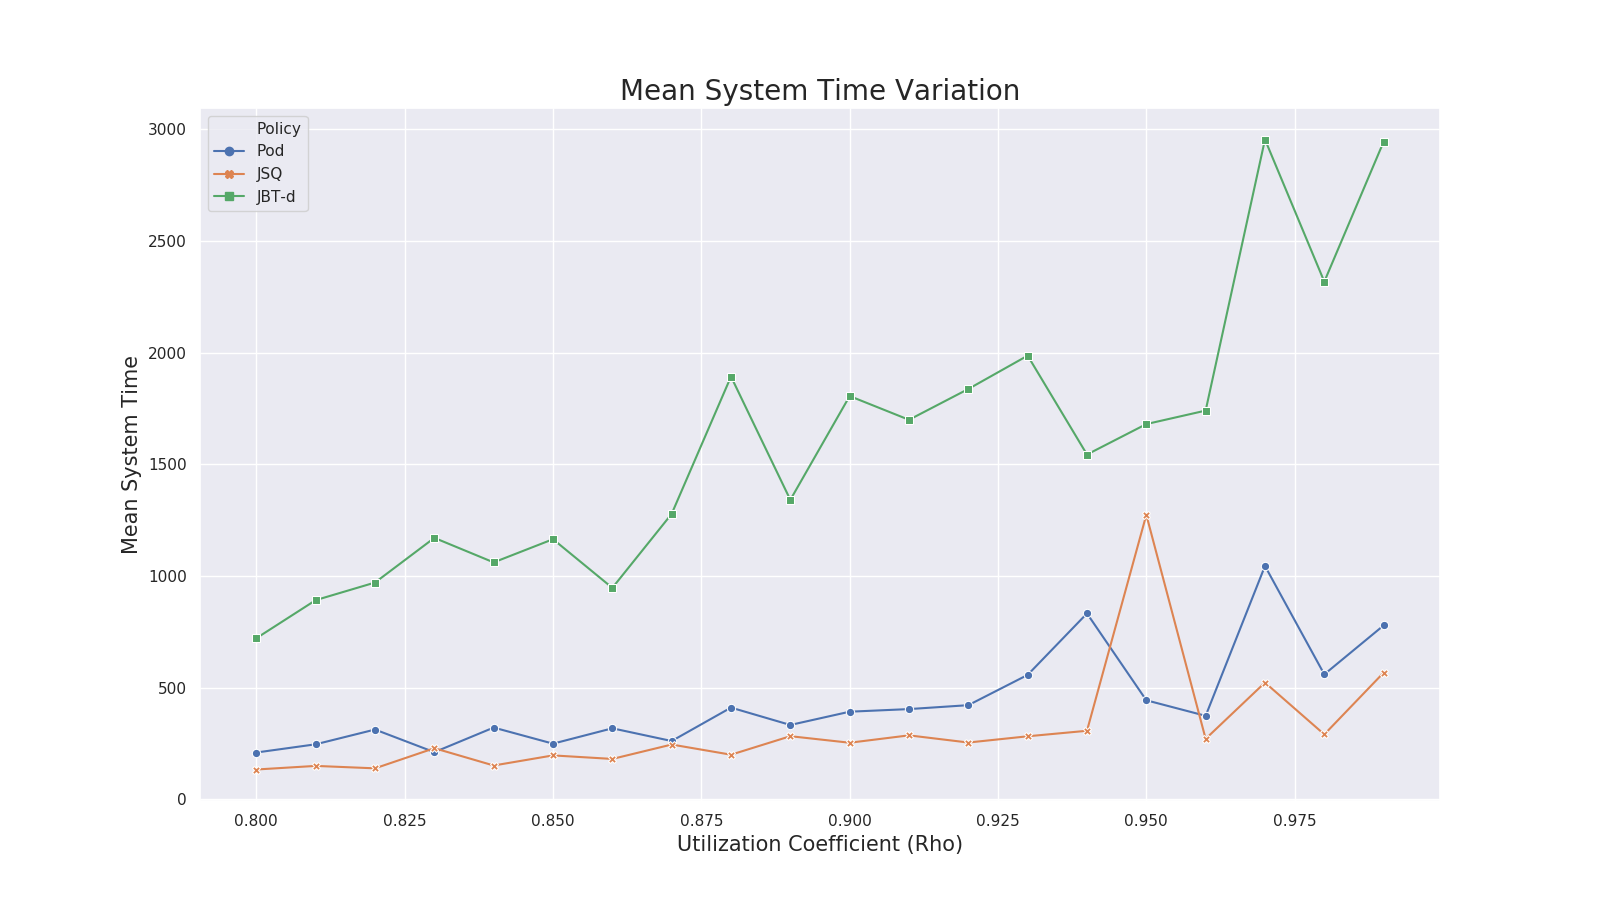
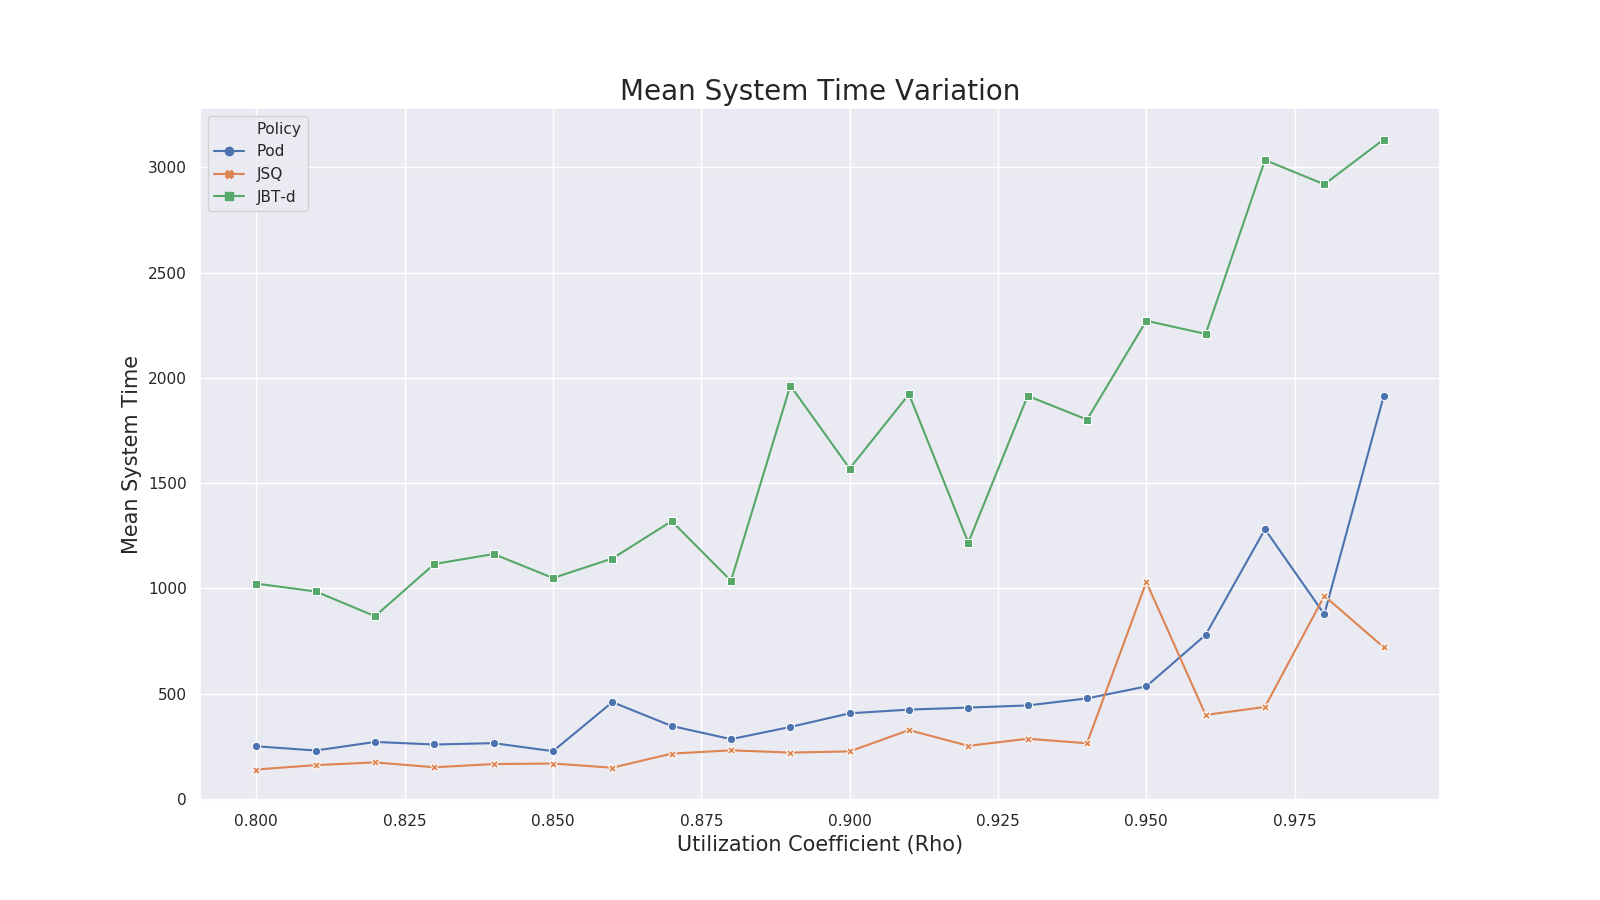
Set seed, clean code and add single simulations

diff --git a/main.py b/main.py
@@ -6,14 +6,14 @@ from time import time
 from simulation_utils import Simulator, plot
 
 
-number_of_tasks = (10**5)
+number_of_tasks = (10**4)
 number_of_servers = 20
 d = 3
 rho_values = np.arange(0.8, 1., 0.01)
 multiple_sim = False
-n_sim = 5
-n_proc = mp.cpu_count()
-custom = True
+n_sim = 20
+n_proc = mp.cpu_count()//2
+custom = False
 
 
 def perform_multiple_simulations(simulator, jbt=False, custom=False):
@@ -48,73 +48,96 @@ if __name__ == "__main__":
     start = time()
 
     if multiple_sim:
-        filename = 'multiple_simulations_'
 
-        # Pod-d simulation
-        simulator = Simulator(number_of_tasks, number_of_servers, d)
-        mean_system_times_pod, confidence_intervals_pod, overheads_pod = perform_multiple_simulations(
-            simulator)
-
-        # JSQ simulation
-        simulator = Simulator(
-            number_of_tasks, number_of_servers, number_of_servers)
-        mean_system_times_jsq, confidence_intervals_jsq, overheads_jsq = perform_multiple_simulations(
-            simulator)
-
-        # JBT-d simulation
-        simulator = Simulator(number_of_tasks, number_of_servers, d)
-        mean_system_times_jbt, confidence_intervals_jbt, overheads_jbt = perform_multiple_simulations(
-            simulator, jbt=True)
-
-        # Custom simulation
         if custom:
+            # JSQ simulation
+            simulator = Simulator(
+                number_of_tasks, number_of_servers, number_of_servers)
+            mean_system_times_jsq, confidence_intervals_jsq, overheads_jsq = perform_multiple_simulations(
+                simulator)
+
+            # Custom simulation
             simulator = Simulator(number_of_tasks, number_of_servers, d)
             mean_system_times_cst, confidence_intervals_cst, overheads_cst = perform_multiple_simulations(
                 simulator, custom=True)
+
+            ci = [confidence_intervals_jsq,
+                  confidence_intervals_cst]
             filename = 'multiple_simulations_custom_'
 
-        ci = [confidence_intervals_pod,
-              confidence_intervals_jsq,
-              confidence_intervals_jbt]
+        else:
+            # Pod-d simulation
+            simulator = Simulator(number_of_tasks, number_of_servers, d)
+            mean_system_times_pod, confidence_intervals_pod, overheads_pod = perform_multiple_simulations(
+                simulator)
+
+            # JSQ simulation
+            simulator = Simulator(
+                number_of_tasks, number_of_servers, number_of_servers)
+            mean_system_times_jsq, confidence_intervals_jsq, overheads_jsq = perform_multiple_simulations(
+                simulator)
+
+            # JBT-d simulation
+            simulator = Simulator(number_of_tasks, number_of_servers, d)
+            mean_system_times_jbt, confidence_intervals_jbt, overheads_jbt = perform_multiple_simulations(
+                simulator, jbt=True)
+
+            ci = [confidence_intervals_pod,
+                  confidence_intervals_jsq,
+                  confidence_intervals_jbt]
+            filename = 'multiple_simulations_'
 
     else:
-        filename = 'single_simulation_'
 
-        # Pod-d simulation
-        simulator = Simulator(number_of_tasks, number_of_servers, d)
-        mean_system_times_pod, overheads_pod = simulator.multiprocessing_simulation(
-            rho_values, n_proc)
-
-        # JSQ simulation
-        simulator = Simulator(
-            number_of_tasks, number_of_servers, number_of_servers)
-        mean_system_times_jsq, overheads_jsq = simulator.multiprocessing_simulation(
-            rho_values, n_proc)
-
-        # JBT-d simulation
-        simulator = Simulator(number_of_tasks, number_of_servers, d)
-        mean_system_times_jbt, overheads_jbt = simulator.multiprocessing_simulation(
-            rho_values, n_proc, jbt=True)
-
-        # Custom simulation
         if custom:
+            # JSQ simulation
+            simulator = Simulator(
+                number_of_tasks, number_of_servers, number_of_servers)
+            mean_system_times_jsq, overheads_jsq = simulator.multiprocessing_simulation(
+                rho_values, n_proc)
+
+            # Custom simulation
             simulator = Simulator(number_of_tasks, number_of_servers, d)
             mean_system_times_cst, overheads_cst = simulator.multiprocessing_simulation(
                 rho_values, n_proc, custom=True)
+
             filename = 'single_simulation_custom_'
+
+        else:
+            # Pod-d simulation
+            simulator = Simulator(number_of_tasks, number_of_servers, d)
+            mean_system_times_pod, overheads_pod = simulator.multiprocessing_simulation(
+                rho_values, n_proc)
+
+            # JSQ simulation
+            simulator = Simulator(
+                number_of_tasks, number_of_servers, number_of_servers)
+            mean_system_times_jsq, overheads_jsq = simulator.multiprocessing_simulation(
+                rho_values, n_proc)
+
+            # JBT-d simulation
+            simulator = Simulator(number_of_tasks, number_of_servers, d)
+            mean_system_times_jbt, overheads_jbt = simulator.multiprocessing_simulation(
+                rho_values, n_proc, jbt=True)
+
+            filename = 'single_simulation_'
 
     end = time()
     print("Simulation completed in", int(end-start), "seconds!\n\n")
 
-    data = {
-        "Rho": rho_values,
-        "Pod": mean_system_times_pod,
-        "JSQ": mean_system_times_jsq,
-        "JBT-d": mean_system_times_jbt
-    }
-
     if custom:
-        data["CST"] = mean_system_times_cst
+        data = {
+            "Rho": rho_values,
+            "JSQ": mean_system_times_jsq,
+            "CST": mean_system_times_cst
+        }
+    else:
+        data = {
+            "Rho": rho_values,
+            "Pod": mean_system_times_pod,
+            "JSQ": mean_system_times_jsq,
+            "JBT-d": mean_system_times_jbt
+        }
 
     df = pd.DataFrame.from_dict(data)
     ylabel = "Mean System Time"
@@ -123,12 +146,19 @@ if __name__ == "__main__":
     plot(df, d, "Mean System Time Variation",
          "Utilization Coefficient (Rho)", ylabel, path, ci)
 
-    data = {
-        "Rho": rho_values,
-        "Pod": overheads_pod,
-        "JSQ": overheads_jsq,
-        "JBT-d": overheads_jbt
-    }
+    if custom:
+        data = {
+            "Rho": rho_values,
+            "JSQ": overheads_jsq
+        }
+    else:
+        data = {
+            "Rho": rho_values,
+            "Pod": overheads_pod,
+            "JSQ": overheads_jsq,
+            "JBT-d": overheads_jbt
+        }
+
     df = pd.DataFrame.from_dict(data)
     ylabel = "System Message Overhead"
     df = df.melt('Rho', var_name='Policy',  value_name=ylabel)

diff --git a/Dispatcher.py b/Dispatcher.py
@@ -7,7 +7,7 @@ import matplotlib.pyplot as plt
 
 class Dispatcher:
 
-    # random.seed(1234)
+    random.seed(1234)
 
     q = 3/5
     y = 10
